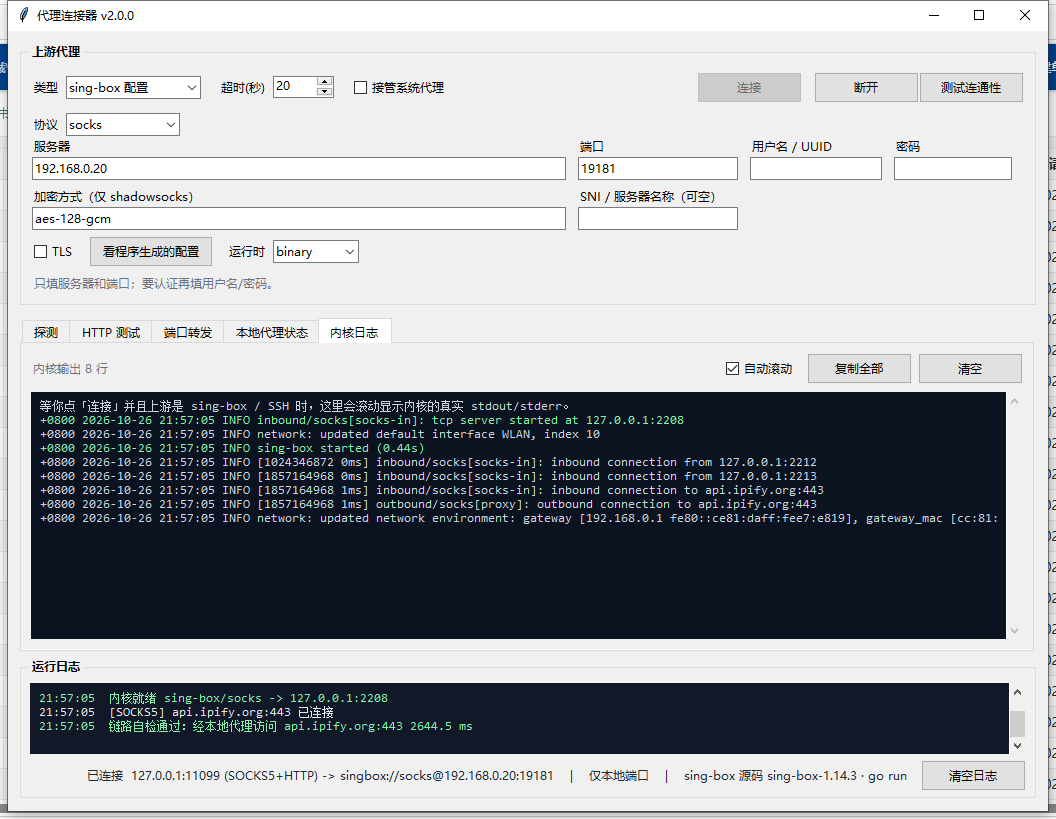
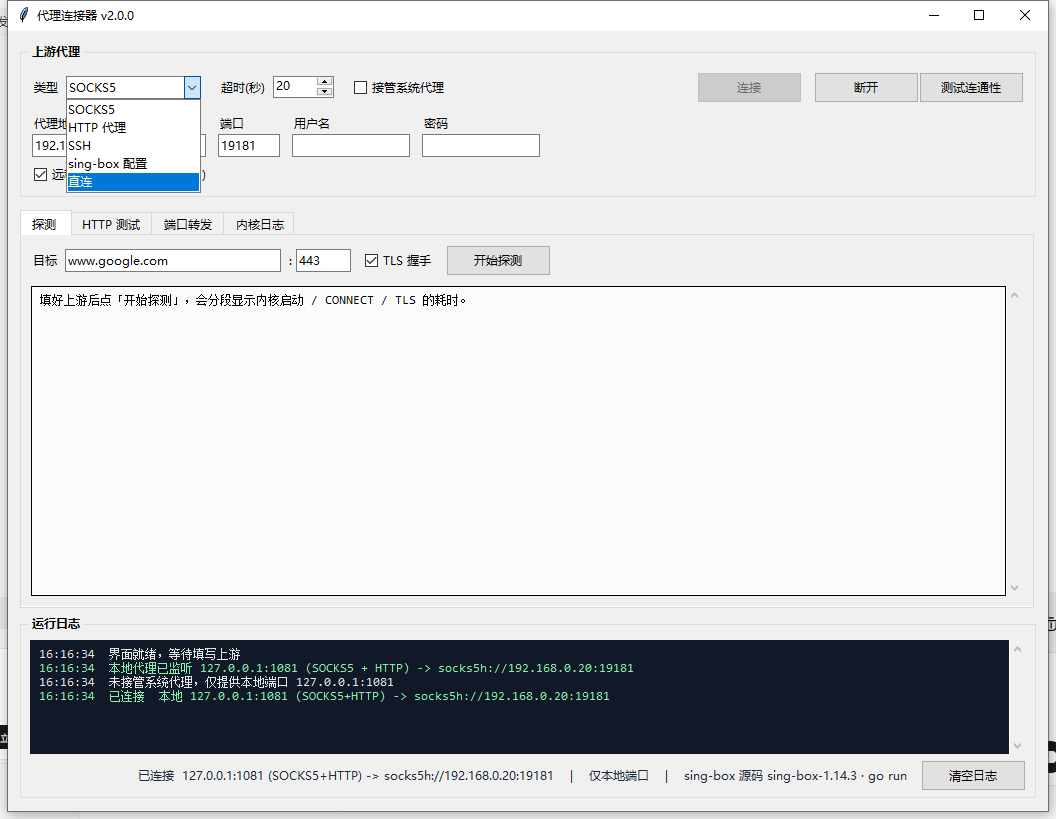
fix: 删掉多余的「本地代理状态」页，补 fix-proxy 兜底
- 用户要的是点一下就连上，本地端口/混合代理的解释属于噪音，整页删除
- 页签只剩：探测 / HTTP 测试 / 端口转发 / 内核日志
- 本地端口不再有 UI，默认 1081，占用时自动顺延，只体现在状态栏
- 新增 fix-proxy 子命令：程序被强杀导致系统代理残留在死端口时，
  从 system_proxy_backup.json 还原并打印当前注册表状态

diff --git a/connector/gui.py b/connector/gui.py
@@ -126,6 +126,7 @@ class GuiApp:
         style.configure("Good.TLabel", foreground="#15803d", font=("Microsoft YaHei UI", 9, "bold"))
 
     def _build(self) -> None:
+        self.local_port_var = tk.StringVar(value=str(self.local_port))
         self.root.columnconfigure(0, weight=1)
         self.root.rowconfigure(1, weight=3)
         self.root.rowconfigure(2, weight=2)
@@ -332,7 +333,6 @@ class GuiApp:
         self._build_probe_page()
         self._build_fetch_page()
         self._build_tunnel_page()
-        self._build_http_proxy_page()
         self._build_kernel_page()
 
     def _build_probe_page(self) -> None:
@@ -404,34 +404,6 @@ class GuiApp:
         wrap, self.txt_tun = self._text_panel(page)
         wrap.grid(row=2, column=0, sticky="nsew", pady=(8, 0))
         self._write(self.txt_tun, "本地监听一个 TCP 端口，所有连接经上游送到目标。适合 SSH / MySQL / RDP 等任意 TCP 服务。\n")
-
-    def _build_http_proxy_page(self) -> None:
-        """已并入「连接」：本地混合代理同时提供 HTTP 与 SOCKS5，这里只显示状态。"""
-        page = ttk.Frame(self.nb, padding=10)
-        self.nb.add(page, text="  本地代理状态  ")
-        page.columnconfigure(0, weight=1)
-        page.rowconfigure(2, weight=1)
-
-        bar = ttk.Frame(page)
-        bar.grid(row=0, column=0, sticky="ew")
-        ttk.Label(bar, text="本地监听端口").pack(side="left")
-        self.local_port_var = tk.StringVar(value="1081")
-        ttk.Spinbox(bar, from_=1024, to=65535, textvariable=self.local_port_var,
-                    width=8).pack(side="left", padx=6)
-        ttk.Label(bar, text="浏览器和软件就指这个端口；被占用会自动顺延，改完点「连接」生效",
-                  style="Hint.TLabel").pack(side="left", padx=(6, 0))
-
-        self.lbl_hp = ttk.Label(page, text="未连接", style="Hint.TLabel")
-        self.lbl_hp.grid(row=1, column=0, sticky="w", pady=(8, 0))
-
-        wrap, self.txt_hp = self._text_panel(page)
-        wrap.grid(row=2, column=0, sticky="nsew", pady=(8, 0))
-        self._write(self.txt_hp,
-                    "点上方「连接」后，本机会监听一个混合端口，同时支持：\n"
-                    "  · HTTP/HTTPS 代理（浏览器、系统代理、只认 HTTP 代理的软件）\n"
-                    "  · SOCKS5（支持 socks5 的软件、curl --socks5-hostname）\n"
-                    "这个端口是给本机程序用的入口，不是你的代理服务器端口。\n"
-                    "勾了「接管系统代理」的话，程序会自动把系统代理指过来，你不用管它。\n")
 
     def _build_kernel_page(self) -> None:
         """sing-box / ssh 内核的原始输出，一行不改，原样展示。"""
@@ -982,8 +954,6 @@ class GuiApp:
             self.log("INFO", "未接管系统代理，仅提供本地端口 127.0.0.1:%d" % proxy.port)
 
         self._update_status()
-        self.lbl_hp.configure(text=f"运行中：127.0.0.1:{proxy.port}（SOCKS5 + HTTP）",
-                             style="Good.TLabel")
         self.log("OK", f"已连接  本地 127.0.0.1:{proxy.port} (SOCKS5+HTTP) "
                        f"-> {new_upstream.describe()}")
         self._verify_link(proxy.port)
@@ -995,7 +965,6 @@ class GuiApp:
         self._connected = False
         self.btn_connect.configure(state="normal")
         self.btn_disconnect.configure(state="disabled")
-        self.lbl_hp.configure(text="未连接", style="Hint.TLabel")
         self._update_status()
         self.log("INFO", "已断开")
 
@@ -1182,9 +1151,6 @@ class GuiApp:
         self.lbl_tun.configure(text="已停止", style="Hint.TLabel")
         self.btn_tun_start.configure(state="normal")
         self.btn_tun_stop.configure(state="disabled")
-
-    def do_http_proxy_stop(self) -> None:
-        self.disconnect()
 
     # ------------------------------------------------------------------
     # 生命周期

diff --git a/socks5_connector.py b/socks5_connector.py
@@ -130,6 +130,10 @@ def build_parser() -> argparse.ArgumentParser:
     p_install.add_argument("--version", default="latest", help="如 v1.14.3，默认最新")
     p_install.add_argument("--dir", default=None, help="安装目录，默认程序目录/bin")
 
+    p_fix = sub.add_parser("fix-proxy", help="还原被强杀后残留的系统代理设置")
+    p_fix.add_argument("--config", default=None,
+                       help="配置文件路径（备份文件在它旁边），默认找程序目录")
+
     return parser
 
 
@@ -370,6 +374,35 @@ def cmd_install(args) -> int:
     return 0
 
 
+def cmd_fix_proxy(args) -> int:
+    """程序被强杀后系统代理可能留在死端口，这个命令把它还原。"""
+    from connector.sysproxy import SystemProxy
+
+    folders = [app_dir()]
+    if args.config:
+        folders.append(os.path.dirname(os.path.abspath(args.config)))
+    restored = False
+    for folder in dict.fromkeys(folders):
+        state = os.path.join(folder, "system_proxy_backup.json")
+        if not os.path.exists(state):
+            continue
+        print(f"找到遗留备份: {state}")
+        try:
+            with open(state, "r", encoding="utf-8") as fh:
+                print(f"  备份内容: {json.load(fh)}")
+        except (OSError, ValueError):
+            pass
+        proxy = SystemProxy(state_path=state, log=_cli_log)
+        if proxy.restore_leftover():
+            restored = True
+
+    current = SystemProxy()
+    print(f"当前系统代理: {current.read()}")
+    if not restored:
+        print("没有遗留备份，系统代理保持原样")
+    return 0
+
+
 # --------------------------------------------------------------------------
 # 入口
 # --------------------------------------------------------------------------
@@ -396,6 +429,8 @@ def main(argv=None) -> int:
         return cmd_proxy(args)
     if command == "install-singbox":
         return cmd_install(args)
+    if command == "fix-proxy":
+        return cmd_fix_proxy(args)
     parser.print_help()
     return 1
 

diff --git a/README.md b/README.md
@@ -47,7 +47,7 @@ python socks5_connector.py
 
 - 勾了「接管系统代理」→ 程序自动把系统代理指到这个端口，你完全不用管它
 - 不勾 → 自己去软件里填 `127.0.0.1:1081`
-- 默认 1081，被别的程序占用会自动顺延到下一个可用端口，实际端口显示在状态栏和「本地代理状态」页
+- 默认 1081，被别的程序占用会自动顺延到下一个可用端口，实际端口显示在状态栏
 
 端口同时是 SOCKS5：
 
@@ -56,7 +56,7 @@ curl --socks5-hostname 127.0.0.1:1081 https://api.ipify.org
 curl -x http://127.0.0.1:1081 https://api.ipify.org
 ```
 
-下面五个分页：探测、HTTP 测试、端口转发、本地代理状态、**内核日志**。底部是实时日志。
+下面四个分页：探测、HTTP 测试、端口转发、**内核日志**。底部是实时日志。日常只需要「连接」和「断开」，其余分页是排查工具。
 
 ## 内核日志
 
